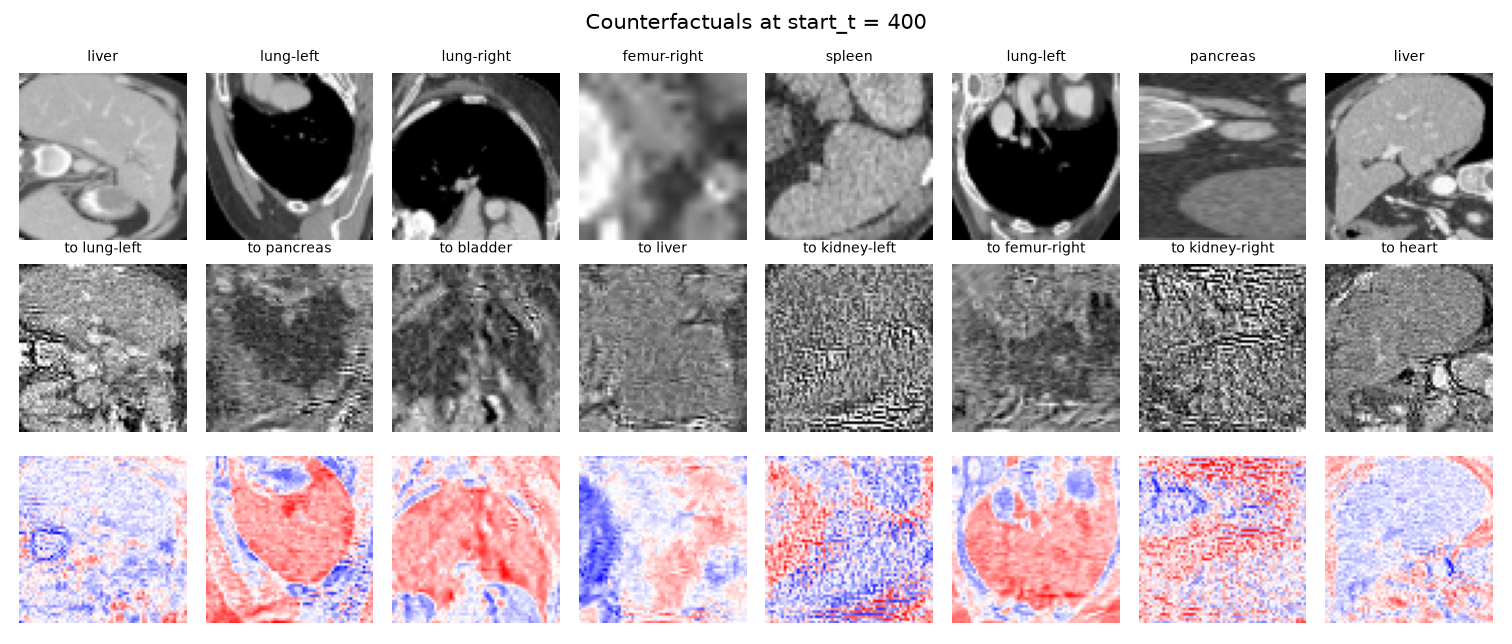
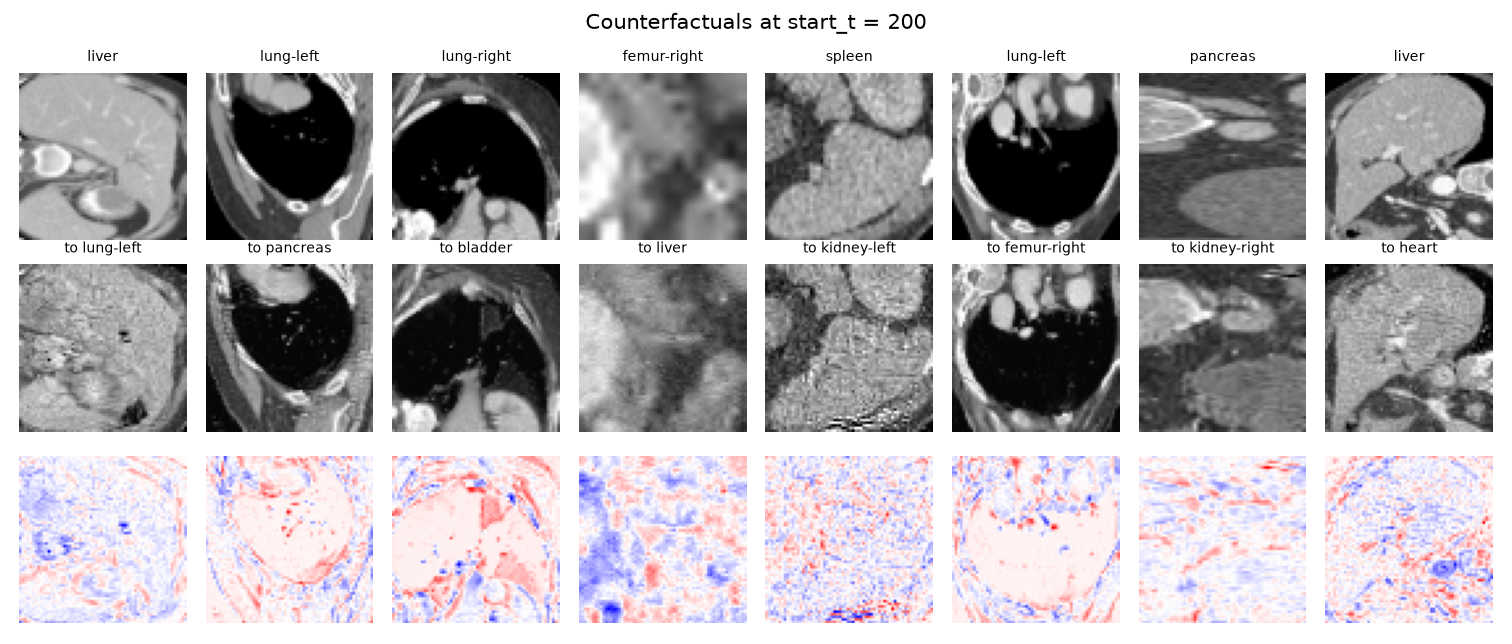
Add README with results, figures and limitations

diff --git a/README.md b/README.md
@@ -1,0 +1,284 @@
+# Diffusion Counterfactuals for CT Organ Classification
+
+Training a denoising diffusion model on abdominal CT, then using it to ask a
+classifier what it would take to change its mind, and measuring whether the
+answer is a usable explanation.
+
+---
+
+## 1. Goal
+
+A counterfactual explanation answers a question a heatmap cannot: not *where*
+the model looked, but *what would have to be different* for the model to decide
+otherwise. If a classifier calls a slice "liver", the counterfactual is the
+smallest edit that makes it call the slice "spleen". If that edit lands on
+anatomy a radiologist would also point at, the explanation is informative. If it
+scatters noise across the whole image, it is not.
+
+This project builds the pipeline and measures the second part, which is the part
+usually skipped.
+
+Three questions:
+
+1. **Can a diffusion model trained on 34,561 CT slices generate counterfactuals
+   that actually flip a classifier?**
+2. **What does a successful flip cost?** Every counterfactual trades validity
+   against how much of the original image survives. The trade-off is a curve,
+   not a number, and where it turns is the useful finding.
+3. **Is the generative model reproducing its training data?** Diffusion models
+   trained on medical images are known to memorise patients. A synthetic CT
+   pipeline that has not been checked for this should not be used.
+
+---
+
+## 2. Data
+
+**OrganAMNIST** from MedMNIST v2, the 64x64 release. Axial abdominal CT slices
+cropped to 11 organs, derived from the Liver Tumor Segmentation Benchmark.
+
+| Property | Value |
+|---|---|
+| Source | [MedMNIST v2](https://medmnist.com/), CC BY 4.0 |
+| Modality | Axial abdominal CT |
+| Resolution | 64 x 64, single channel |
+| Train / val / test | 34,561 / 6,491 / 17,778 |
+| Classes | 11 organs |
+| Scaling | uint8 mapped to [-1, 1] |
+
+### Class distribution
+
+![class distribution](docs/figures/class_distribution.png)
+
+The split is uneven. Liver has 6,164 training slices and femur-left has 1,390.
+Per-class classifier accuracy is reported below rather than a single average,
+because the average hides the classes that matter.
+
+---
+
+## 3. Method
+
+Three components.
+
+**Diffusion model.** A MONAI `DiffusionModelUNet`, 10.4M parameters, predicting
+the noise added at each of 1,000 timesteps. Attention at the coarsest resolution
+only. Trained unconditionally for 40 epochs at batch 512.
+
+**Classifier.** A four-stage CNN, the model under explanation. It is deliberately
+small. The object of study is the explanation method, and a larger classifier
+would slow the counterfactual search without changing what is measured. Dropout
+is kept so the same network can be reused for uncertainty work later.
+
+**Counterfactual generation.** For a real slice and a target organ:
+
+1. Noise the slice forward to timestep `start_t`.
+2. Denoise back down with DDIM, 100 steps.
+3. At each step, take the classifier gradient with respect to the *predicted
+   clean image* rather than the noisy latent, and push the noise prediction
+   toward the target class.
+
+Taking the gradient on the predicted clean image matters. The classifier was
+trained on clean slices, so evaluating it on a partially noised latent asks it
+about inputs it has never seen.
+
+`start_t` controls everything. Low values keep the image intact and rarely
+change the prediction. High values change the prediction and destroy the image.
+Sweeping it is the experiment.
+
+### Evaluation
+
+A plausible-looking counterfactual is not yet an explanation. Four axes:
+
+| Axis | Measure |
+|---|---|
+| **Validity** | fraction where the classifier now predicts the target class |
+| **Proximity** | mean L1 change, and fraction of pixels moved more than 0.1 |
+| **Identity** | centred cosine similarity between original and counterfactual |
+| **Realism** | Frechet distance in classifier feature space |
+
+Plus a **memorisation check**: nearest-neighbour distance from generated samples
+to the training set, compared against the same statistic for real held-out test
+images.
+
+---
+
+## 4. Results
+
+### Diffusion samples
+
+![samples](docs/figures/samples.png)
+
+Unconditional samples after 40 epochs. Organ boundaries, vessels, bright
+contrast structures and dark air are all present and in plausible arrangements.
+
+### Training
+
+![training curves](docs/figures/training_curves.png)
+
+Noise-prediction MSE falls from 0.096 to 0.034 over 40 epochs, 23 minutes on one
+A100. The classifier reaches **95.8% test accuracy**.
+
+### Classifier, per organ
+
+![per class accuracy](docs/figures/per_class_accuracy.png)
+
+| Organ | Test accuracy |
+|---|---|
+| heart | 0.885 |
+| kidney-left | 0.899 |
+| femur-left | 0.946 |
+| kidney-right | 0.946 |
+| bladder | 0.952 |
+| femur-right | 0.968 |
+| pancreas | 0.976 |
+| spleen | 0.982 |
+| liver | 0.992 |
+| lung-right | 0.999 |
+| lung-left | 1.000 |
+
+Lungs are near perfect, which is expected given they are mostly air against
+tissue. Heart and left kidney are hardest.
+
+### The main result: validity against proximity
+
+Classifier accuracy on the 256 explained slices was 0.934.
+
+| `start_t` | validity | L1 change | pixels changed | identity |
+|---|---|---|---|---|
+| 50 | 0.086 | 0.054 | 0.162 | 0.981 |
+| 100 | 0.301 | 0.090 | 0.344 | 0.950 |
+| 150 | 0.387 | 0.114 | 0.424 | 0.923 |
+| **200** | **0.426** | 0.155 | 0.546 | 0.866 |
+| 300 | 0.375 | 0.305 | 0.777 | 0.602 |
+| 400 | 0.398 | 0.422 | 0.851 | 0.335 |
+| 600 | 0.219 | 0.481 | 0.876 | 0.079 |
+
+![validity and proximity](docs/figures/validity_proximity.png)
+
+**Validity peaks at `start_t = 200` and then falls.** This is the finding worth
+recording. The intuition that pushing further up the diffusion trajectory buys
+more successful flips is wrong. Past 200 the image degrades faster than the
+classifier is persuaded: identity correlation collapses from 0.87 to 0.08 while
+validity drops from 0.43 to 0.22.
+
+So there is an operating point, and beyond it the method stops explaining the
+classifier and starts repainting the scan. A counterfactual at `start_t = 600`
+changes 88% of pixels and retains almost nothing of the original. Whatever it
+shows, it is not an explanation of this slice.
+
+### Counterfactual examples
+
+![counterfactual panel](docs/figures/counterfactual_panel.png)
+
+At the operating point. Top row original, middle row counterfactual, bottom row
+the difference. Anatomy survives and the edits are localised and structured
+rather than uniform noise.
+
+### Memorisation
+
+![memorisation](docs/figures/memorisation.png)
+
+| | median | 5th percentile | minimum |
+|---|---|---|---|
+| Generated to nearest training image | 22.68 | | 11.48 |
+| Real test to nearest training image | 25.22 | | 10.71 |
+
+Generated samples sit about 10% closer to the training set than real unseen
+images do (ratio 0.899), and the closest generated sample is *further* from the
+training set than the closest real test image is. There is no evidence of
+patient reproduction at this scale. The check is cheap and should be run on any
+medical generative model before its outputs are shared.
+
+Frechet distance in classifier feature space: **46.8** for generated against
+train, with a floor of **2.9** for real test against train. Samples are still
+distinguishable from real data, which 40 epochs at this resolution should be
+expected to give.
+
+---
+
+## 5. Reproducing
+
+### Requirements
+
+```
+torch  monai  medmnist  numpy  scipy  matplotlib  einops
+```
+
+One GPU. The full pipeline is about 35 minutes on an A100.
+
+### Pipeline
+
+```bash
+# 1. Train the diffusion model (23 min on an A100)
+PYTHONPATH=src python src/train_diffusion.py --epochs 40 --batch-size 512
+
+# 2. Train the classifier it has to fool (4 min)
+PYTHONPATH=src python src/train_classifier.py --epochs 15 --batch-size 256
+
+# 3. Sweep start_t and measure validity, proximity and identity
+PYTHONPATH=src python src/counterfactual.py --n 256 --scale 6.0 --steps 100
+
+# 4. Sample quality and the memorisation check
+PYTHONPATH=src python src/evaluate.py --n-samples 1024 --steps 100
+
+# 5. Figures
+PYTHONPATH=src python src/figures.py
+```
+
+Data downloads itself on first run, about 400MB.
+
+---
+
+## 6. Repository layout
+
+```
+src/train_diffusion.py    DDPM training
+src/train_classifier.py   the model under explanation
+src/counterfactual.py     guided generation and the start_t sweep
+src/evaluate.py           Frechet distance and memorisation
+src/figures.py            every figure in this README
+src/data.py               OrganAMNIST loaders
+results/                  metrics as JSON
+docs/figures/             figures, all regenerable
+```
+
+---
+
+## 7. Limitations
+
+**Resolution.** 64x64 single slices, not full CT volumes. This was a deliberate
+trade to keep the whole pipeline inside a day on one GPU. At full resolution the
+diffusion model would need a latent formulation, and the counterfactual search
+would be substantially more expensive. The method transfers; the numbers here
+should not be quoted as if they came from full-volume data.
+
+**Validity is 0.43 at best.** Fewer than half the counterfactuals reach the
+target organ. Some of that is the difficulty of turning a lung into a pancreas
+inside a fixed field of view, which no amount of guidance should achieve. A
+conditional diffusion model, rather than an unconditional one steered by
+classifier gradients, would likely do better.
+
+**Frechet distance is measured in classifier feature space**, not ImageNet
+Inception space. Inception features are trained on natural photographs and
+describe CT poorly. Using the organ classifier keeps the measure in the right
+domain, but it makes the number comparable only within this repository, not
+against published FID values.
+
+**Organ identity is a proxy task.** Flipping "liver" to "spleen" is not a
+clinical decision. The pipeline is the contribution; applying it to a
+diagnostic label such as malignancy is the next step.
+
+**Single seed.** The sweep was run once. The shape of the curve is clear, but
+individual validity numbers carry seed noise.
+
+---
+
+## 8. References
+
+- Jeanneret et al., *Diffusion Models for Counterfactual Explanations*,
+  [arXiv:2203.15636](https://arxiv.org/abs/2203.15636)
+- Sanchez et al., *Counterfactual Explanations for Medical Image Classification
+  and Regression using Diffusion Autoencoder*,
+  [arXiv:2408.01571](https://arxiv.org/abs/2408.01571)
+- Dar et al., *Unconditional Latent Diffusion Models Memorize Patient Imaging
+  Data*, [arXiv:2402.01054](https://arxiv.org/abs/2402.01054)
+- Yang et al., *MedMNIST v2*, [medmnist.com](https://medmnist.com/)
